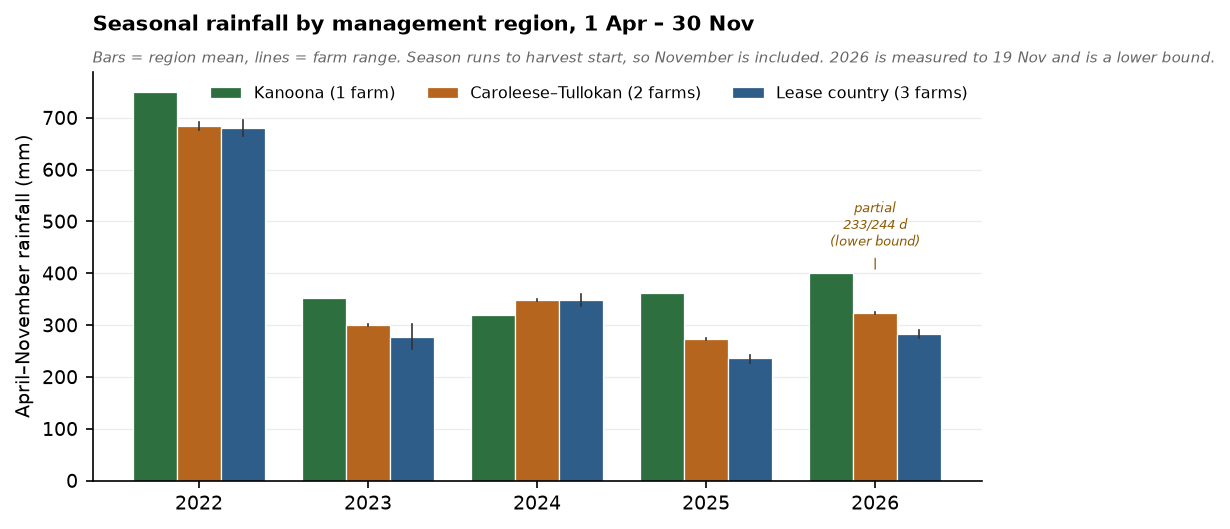
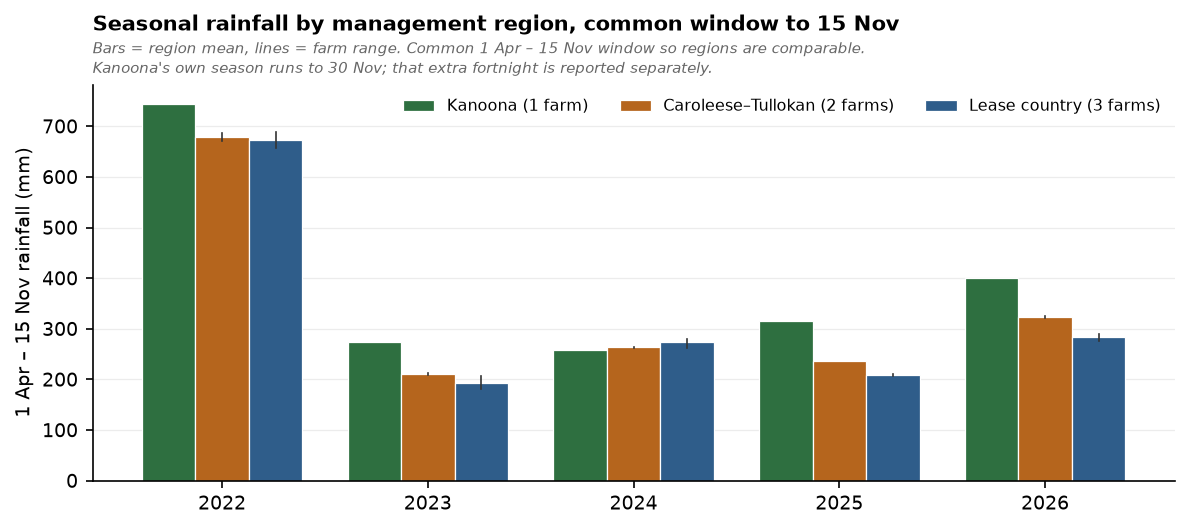
Assignment 2: apply per-farm growing seasons and add reviewer note
Kanoona runs 1 Apr - 30 Nov (244 d); the other five farms run 1 Apr - 15 Nov (229 d). Season end is now per farm and recorded in season_window / season_expected_days rather than assumed globally.

Because the windows differ in length, raw season totals would credit Kanoona with two extra weeks. Every farm now also carries a common 1 Apr - 15 Nov window, which is complete for all 30 farm-years including 2026, plus extension_* columns isolating what Kanoona's longer season adds (15 d, ~220-335 GDD0). Cross-region comparisons use common_*; farm descriptions use season_*.

Figure 2 now plots the common window with the Kanoona caveat in the subtitle; vision re-checked, PASS. README.md adds the scoped reviewer diff command, since the branch also carries a 63-commit upstream merge.

diff --git a/my-farm-advisor/eda/eda-field-comparison/src/fetch_weather.py b/my-farm-advisor/eda/eda-field-comparison/src/fetch_weather.py
@@ -17,14 +17,15 @@ cache exists.
 
 Season definitions
 ------------------
-The enterprise sows from mid-April to mid/late May and harvests from
-mid/late November to mid/late December, so the primary season runs
-**1 April - 30 November** (244 days). That captures grain fill and the
-November heat that a 31 October cut-off would discard.
+Growing seasons differ by location. Kanoona, further east, runs
+**1 April - 30 November** (244 days). Every other farm runs **1 April -
+15 November** (229 days), matching an earlier harvest start.
 
-A secondary **1 April - 31 October** window (214 days) is carried alongside.
-It stops before harvest but is the only window complete for all five years,
-so it is the apples-to-apples comparison for 2026.
+Because the windows differ in length, a cross-region comparison of raw
+season totals would credit Kanoona with two extra weeks. Every farm therefore
+also carries a **common window of 1 April - 15 November** (229 days), which is
+complete for all 30 farm-years including 2026. Use `common_*` columns to
+compare regions; use `season_*` columns to describe each farm's own season.
 
 Sowing (1 April - 31 May) and flowering (1 September - 31 October) sub-windows
 carry the rainfall and frost exposure that matter at those stages.
@@ -48,6 +49,7 @@ import sys
 import time
 import urllib.parse
 import urllib.request
+from datetime import date
 from pathlib import Path
 
 import pandas as pd
@@ -65,22 +67,19 @@ VARIABLES = "RXNJE"
 START = "20220101"
 FINISH = "20261119"
 
-# Primary season: sowing window start through harvest start.
+# Sowing window start. Season end differs by farm: Kanoona runs later.
 SEASON_START = (4, 1)
-SEASON_END = (11, 30)
-SEASON_EXPECTED_DAYS = 244
+SEASON_END_DEFAULT = (11, 15)
+SEASON_END_BY_FARM = {"Kanoona": (11, 30)}
 
-# Secondary season: complete for every year including 2026.
-COMPARISON_END = (10, 31)
-COMPARISON_EXPECTED_DAYS = 214
+# Common window, used for every cross-region comparison.
+COMMON_END = (11, 15)
 
 # Stage windows.
 SOWING_START = (4, 1)
 SOWING_END = (5, 31)
 FLOWERING_START = (9, 1)
 FLOWERING_END = (10, 31)
-NOVEMBER_START = (11, 1)
-NOVEMBER_END = (11, 30)
 
 # GDD bases. Wheat and pasture use 0 degC; canola and legumes 5 degC.
 GDD_BASE_LOW = 0.0
@@ -251,6 +250,15 @@ def _stage(df: pd.DataFrame, start: tuple[int, int], end: tuple[int, int]) -> di
     }
 
 
+def _expected_days(start: tuple[int, int], end: tuple[int, int]) -> int:
+    """Calendar length of a month-day window, on a non-leap reference year."""
+    return (date(2025, end[0], end[1]) - date(2025, start[0], start[1])).days + 1
+
+
+def _window_label(start: tuple[int, int], end: tuple[int, int]) -> str:
+    return f"{start[0]:02d}-{start[1]:02d}..{end[0]:02d}-{end[1]:02d}"
+
+
 def seasonal(frame: pd.DataFrame, farm: str) -> pd.DataFrame:
     df = frame.copy()
     df["year"] = df["date"].dt.year
@@ -263,23 +271,26 @@ def seasonal(frame: pd.DataFrame, farm: str) -> pd.DataFrame:
     df["frost_day"] = (df["tmin"] <= FROST_THRESHOLD).astype(int)
     df["heat_day"] = (df["tmax"] >= HEAT_THRESHOLD).astype(int)
 
+    season_end = SEASON_END_BY_FARM.get(farm, SEASON_END_DEFAULT)
+    season_expected = _expected_days(SEASON_START, season_end)
+    common_expected = _expected_days(SEASON_START, COMMON_END)
+
     rows = []
     for year, grp in df.groupby("year"):
-        season = _stage(grp, SEASON_START, SEASON_END)
-        comparison = _stage(grp, SEASON_START, COMPARISON_END)
+        season = _stage(grp, SEASON_START, season_end)
+        common = _stage(grp, SEASON_START, COMMON_END)
         sowing = _stage(grp, SOWING_START, SOWING_END)
         flowering = _stage(grp, FLOWERING_START, FLOWERING_END)
-        november = _stage(grp, NOVEMBER_START, NOVEMBER_END)
 
         rows.append(
             {
                 "farm": farm,
                 "year": int(year),
-                "season_window": "04-01..11-30",
+                "season_window": _window_label(SEASON_START, season_end),
                 "days_in_record": len(grp),
                 "season_days": season["days"],
-                "season_expected_days": SEASON_EXPECTED_DAYS,
-                "season_complete": season["days"] >= SEASON_EXPECTED_DAYS - 4,
+                "season_expected_days": season_expected,
+                "season_complete": season["days"] >= season_expected - 4,
                 "rain_season_mm": round(season["rain_mm"], 1),
                 "rain_annual_mm": round(float(grp["rain"].sum()), 1),
                 "gdd_base0": round(season["gdd_base0"], 1),
@@ -288,20 +299,25 @@ def seasonal(frame: pd.DataFrame, farm: str) -> pd.DataFrame:
                 "heat_days": season["heat_days"],
                 "radiation_mj": round(season["radiation_mj"], 1),
                 "evap_pan_mm": round(season["evap_pan_mm"], 1),
-                # Secondary season, complete for every year including 2026.
-                "comparison_days": comparison["days"],
-                "comparison_complete": (
-                    comparison["days"] >= COMPARISON_EXPECTED_DAYS - 4
+                # Common window: same dates on every farm, so regions compare.
+                "common_window": _window_label(SEASON_START, COMMON_END),
+                "common_days": common["days"],
+                "common_expected_days": common_expected,
+                "common_complete": common["days"] >= common_expected - 4,
+                "rain_common_mm": round(common["rain_mm"], 1),
+                "gdd_base0_common": round(common["gdd_base0"], 1),
+                "gdd_base5_common": round(common["gdd_base5"], 1),
+                "heat_days_common": common["heat_days"],
+                "frost_days_common": common["frost_days"],
+                # What a longer season adds beyond the common window.
+                "extension_days": season["days"] - common["days"],
+                "rain_extension_mm": round(
+                    season["rain_mm"] - common["rain_mm"], 1
                 ),
-                "rain_apr_oct_mm": round(comparison["rain_mm"], 1),
-                "gdd_base0_apr_oct": round(comparison["gdd_base0"], 1),
-                "gdd_base5_apr_oct": round(comparison["gdd_base5"], 1),
-                "heat_days_apr_oct": comparison["heat_days"],
-                "frost_days_apr_oct": comparison["frost_days"],
-                # Sub-windows.
-                "rain_nov_mm": round(november["rain_mm"], 1),
-                "gdd_base0_nov": round(november["gdd_base0"], 1),
-                "heat_days_nov": november["heat_days"],
+                "gdd_base0_extension": round(
+                    season["gdd_base0"] - common["gdd_base0"], 1
+                ),
+                # Stage sub-windows, inside every farm's season.
                 "rain_sowing_mm": round(sowing["rain_mm"], 1),
                 "frost_days_sowing": sowing["frost_days"],
                 "frost_days_flowering": flowering["frost_days"],
@@ -416,14 +432,15 @@ def main() -> int:
     monthly_df.to_csv(monthly_path, index=False)
 
     summary = seasonal_df.groupby("year").agg(
-        season_days=("season_days", "first"),
+        season_days=("season_days", "max"),
         season_complete=("season_complete", "all"),
+        common_complete=("common_complete", "all"),
         rain_season_mm=("rain_season_mm", "mean"),
-        rain_apr_oct_mm=("rain_apr_oct_mm", "mean"),
+        rain_common_mm=("rain_common_mm", "mean"),
         gdd_base0=("gdd_base0", "mean"),
-        gdd_base0_apr_oct=("gdd_base0_apr_oct", "mean"),
+        gdd_base0_common=("gdd_base0_common", "mean"),
         heat_days=("heat_days", "mean"),
-        heat_days_apr_oct=("heat_days_apr_oct", "mean"),
+        heat_days_common=("heat_days_common", "mean"),
         rain_sowing_mm=("rain_sowing_mm", "mean"),
         frost_days_flowering=("frost_days_flowering", "mean"),
     ).round(1)

diff --git a/my-farm-advisor/eda/eda-field-comparison/src/make_figures.py b/my-farm-advisor/eda/eda-field-comparison/src/make_figures.py
@@ -472,7 +472,7 @@ def figure_rainfall() -> Path | None:
         sub = season[season["region"] == region]
         means, lows, highs = [], [], []
         for year in YEARS:
-            vals = sub.loc[sub["year"] == year, "rain_season_mm"].values
+            vals = sub.loc[sub["year"] == year, "rain_common_mm"].values
             if len(vals) == 0:
                 means.append(np.nan)
                 lows.append(np.nan)
@@ -498,13 +498,13 @@ def figure_rainfall() -> Path | None:
             if hi > lo:
                 ax.plot([xi, xi], [lo, hi], color="#333333", linewidth=0.8)
 
-    # Flag any year whose primary season is short of the 244-day window.
-    for year in sorted(season.loc[~season["season_complete"], "year"].unique()):
+    # Flag any year not complete on the plotted (common) window.
+    for year in sorted(season.loc[~season["common_complete"], "year"].unique()):
         idx = list(YEARS).index(year)
-        top = float(season.loc[season["year"] == year, "rain_season_mm"].max())
-        days = int(season.loc[season["year"] == year, "season_days"].max())
+        top = float(season.loc[season["year"] == year, "rain_common_mm"].max())
+        days = int(season.loc[season["year"] == year, "common_days"].max())
         ax.annotate(
-            f"partial\n{days}/244 d\n(lower bound)",
+            f"partial\n{days}/229 d\n(lower bound)",
             xy=(idx, top),
             xytext=(idx, top + 45),
             ha="center",
@@ -517,23 +517,26 @@ def figure_rainfall() -> Path | None:
 
     ax.set_xticks(x)
     ax.set_xticklabels([str(y) for y in YEARS])
-    ax.set_ylabel("April–November rainfall (mm)")
+    ax.set_ylabel("1 Apr – 15 Nov rainfall (mm)")
     ax.set_title(
-        "Seasonal rainfall by management region, 1 Apr – 30 Nov",
+        "Seasonal rainfall by management region, common window to 15 Nov",
         loc="left",
         fontweight="bold",
-        pad=20,
+        pad=26,
     )
     ax.text(
         0.0,
         1.015,
-        "Bars = region mean, lines = farm range. Season runs to harvest start, so "
-        "November is included. 2026 is measured to 19 Nov and is a lower bound.",
+        "Bars = region mean, lines = farm range. Common 1 Apr – 15 Nov window so "
+        "regions are comparable.\n"
+        "Kanoona's own season runs to 30 Nov; that extra fortnight is reported "
+        "separately.",
         transform=ax.transAxes,
-        fontsize=7.2,
+        fontsize=7.0,
         color="#666666",
         style="italic",
         va="bottom",
+        linespacing=1.35,
     )
     ax.legend(frameon=False, ncol=3, loc="upper right", fontsize=7.5)
     ax.grid(axis="y", color="#ececec", linewidth=0.6)

diff --git a/my-farm-advisor/eda/eda-field-comparison/README.md b/my-farm-advisor/eda/eda-field-comparison/README.md
@@ -1,0 +1,101 @@
+# Field comparison EDA — Assignment 2
+
+Field-level exploratory analysis for an Australian grain enterprise: five years
+of paddock boundaries (2022–2026) turned into one stable field-year panel, then
+compared across three management regions.
+
+Method and conventions live in [GUIDE.md](GUIDE.md); local operating rules are
+in [AGENTS.md](AGENTS.md); the audit record is
+[examples/qc_summary.md](examples/qc_summary.md).
+
+## Reviewing this branch
+
+The branch carries a merge from `origin/main` so the assignment work sits on
+current upstream code. That merge brings 63 commits of unrelated `data-pipeline`
+work, which makes a plain branch-to-branch compare look far larger than this
+assignment is.
+
+**Scope the diff to this directory when reviewing:**
+
+```bash
+git diff --stat assignment-1..assignment-2 -- my-farm-advisor/eda/
+```
+
+That shows the actual contribution: **20 files, 2,972 lines**. For contrast, the
+unscoped compare is 235 files and 44,704 insertions, almost all of it inherited
+upstream work.
+
+The assignment itself is six commits:
+
+| Commit | Content |
+|---|---|
+| `79ff3c9` | field-year panel and boundary QC |
+| `a6a97fb` | SILO seasonal climate metrics |
+| `b27f81b` | region comparison figures |
+| `90fd32b` | guide and EDA index link |
+| `93aa296` | figure vision review pass |
+| latest | per-farm growing seasons and this review note |
+
+## What is here
+
+| Path | What it is |
+|---|---|
+| `src/common.py` | field identity, merge crosswalk, region mapping, geometry |
+| `src/build_panel.py` | builds the field-year panel and rotation spine |
+| `src/qc_boundaries.py` | boundary change and area diagnostics |
+| `src/fetch_weather.py` | SILO client and seasonal metrics |
+| `src/make_figures.py` | all four figures |
+| [examples/panel_field_year.csv](examples/panel_field_year.csv) | 165 rows, one per field-year |
+| [examples/rotation_spine.csv](examples/rotation_spine.csv) | one row per field, crop by year |
+| [examples/qc_boundaries.csv](examples/qc_boundaries.csv) | per field-year boundary diagnostics |
+| [examples/qc_crosswalk.csv](examples/qc_crosswalk.csv) | three retired sub-paddocks mapped to parents |
+| [examples/weather_seasonal.csv](examples/weather_seasonal.csv) | one row per farm-year |
+| `examples/figures/` | figure 1–4 |
+
+## Headline numbers
+
+| Check | Value |
+|---|---:|
+| Canonical fields | 33 |
+| Years | 2022–2026 |
+| Observed field-years | 155 |
+| Not-managed field-years | 10 |
+| Region split | 16 / 11 / 6 |
+| Changed boundaries | 3, all 2025 |
+| Farm-years of climate | 30 |
+
+Field counts by year: 30, 30, 32, 33, 30. Every observed field-year carries a
+crop and a variety.
+
+## Conventions that matter when reading the output
+
+- **Absent is not missing.** A paddock not farmed in a year is `not_managed`,
+  never imputed.
+- **Two area measures.** `area_ha_geom` is the paddock footprint,
+  `area_ha_reported` is the cropped area. Spatial statistics use geometry,
+  crop-area statistics use reported area.
+- **Merges are explicit.** Three sub-paddocks retired in 2025 are mapped to
+  their surviving parents by ID, and their pre-2025 crops are kept in
+  `crop_mix`.
+- **Growing seasons differ.** Kanoona runs 1 April – 30 November (244 days);
+  the other farms run 1 April – 15 November (229 days). Cross-region
+  comparisons use the common window, which is complete for all 30 farm-years.
+
+## Reproducing
+
+```bash
+python src/build_panel.py       # panel and rotation spine
+python src/qc_boundaries.py     # boundary QC and crosswalk
+python src/fetch_weather.py --offline   # seasonal metrics from the SILO cache
+python src/make_figures.py      # figures 1-4
+```
+
+Raw paddock layers and the daily weather cache live outside the repository in
+the untracked runtime tree; `src/common.py` resolves its location from the
+environment. Only derived tables and figures are committed.
+
+## Data privacy
+
+No legal entity name, credential or raw grower layer is committed. Farm and
+paddock names appear because they are the analysis unit. The SILO address is
+read from the environment at run time and is written to no file.

diff --git a/my-farm-advisor/eda/eda-field-comparison/GUIDE.md b/my-farm-advisor/eda/eda-field-comparison/GUIDE.md
@@ -82,17 +82,24 @@ SILO point data at 0.05° is the primary source. SILO identifies callers by
 email address, supplied as `SILO_EMAIL`; there is no API key. Keep the address
 at runtime and out of every committed file.
 
-The enterprise sows mid-April to mid/late May and harvests mid/late November
-to mid/late December, so the **primary season is 1 April – 30 November**
-(244 days). A 31 October cut-off would discard grain fill and every November
-heat day. A secondary **1 April – 31 October** window (214 days) is carried
-alongside because it is the only window complete for all five years,
-including 2026.
+Growing seasons differ by location. Kanoona, the easternmost farm, runs
+**1 April – 30 November** (244 days). Every other farm runs **1 April –
+15 November** (229 days). The difference is real management, so it is kept in
+the data rather than smoothed away: `season_window`, `season_days` and
+`season_expected_days` record each farm's own dates.
+
+Because a two-week head start would flatter Kanoona in any regional total,
+every farm also carries a **common window of 1 April – 15 November**
+(229 days). That window is complete for all 30 farm-years, including 2026.
+Compare regions on `common_*`; describe one farm on `season_*`.
+`extension_days`, `rain_extension_mm` and `gdd_base0_extension` isolate what
+Kanoona's extra fortnight adds: 15 days and roughly 220–335 GDD₀ in a complete
+year.
 
 Stage sub-windows: sowing 1 April – 31 May (rainfall and establishment frost),
-flowering 1 September – 31 October (frost), November alone (heat). GDD base is
-0 °C for wheat and pasture, 5 °C for canola and legumes; frost is Tmin ≤ 2 °C
-and heat is Tmax ≥ 30 °C.
+flowering 1 September – 31 October (frost). GDD base is 0 °C for wheat and
+pasture, 5 °C for canola and legumes; frost is Tmin ≤ 2 °C and heat is
+Tmax ≥ 30 °C.
 
 Because sowing runs from mid-April to mid-May, a 1 April start is a **ceiling,
 not a sowing date**. Moving the start to 1 May removes roughly 490 GDD across

diff --git a/my-farm-advisor/eda/eda-field-comparison/examples/qc_summary.md b/my-farm-advisor/eda/eda-field-comparison/examples/qc_summary.md
@@ -117,11 +117,12 @@ statistics, both shown wherever the distinction matters.
 
 - Weather is available at farm centroids, not per field. Kanoona's 16 fields
   sit inside a single 0.05° cell, so they share one series.
-- The primary season is 1 April – 30 November (244 days), to match sowing
-  through harvest start. 2026 has data only to 19 November, so its primary
-  season is 233 of 244 days and every 2026 seasonal figure is a lower bound.
-  The 1 April – 31 October window is complete for all five years and is the
-  fair comparison for 2026.
+- Growing seasons differ by farm: Kanoona runs 1 April – 30 November
+  (244 days), the other five farms 1 April – 15 November (229 days).
+  Cross-region comparisons use the common 1 April – 15 November window, which
+  is complete for all 30 farm-years. Kanoona 2026 is the only incomplete
+  farm-season (233 of 244 days; data to 19 November), so its own-season 2026
+  totals are lower bounds.
 - No yield or management input data in this build.
 - Three management regions within one enterprise, not three independent
   growers.
